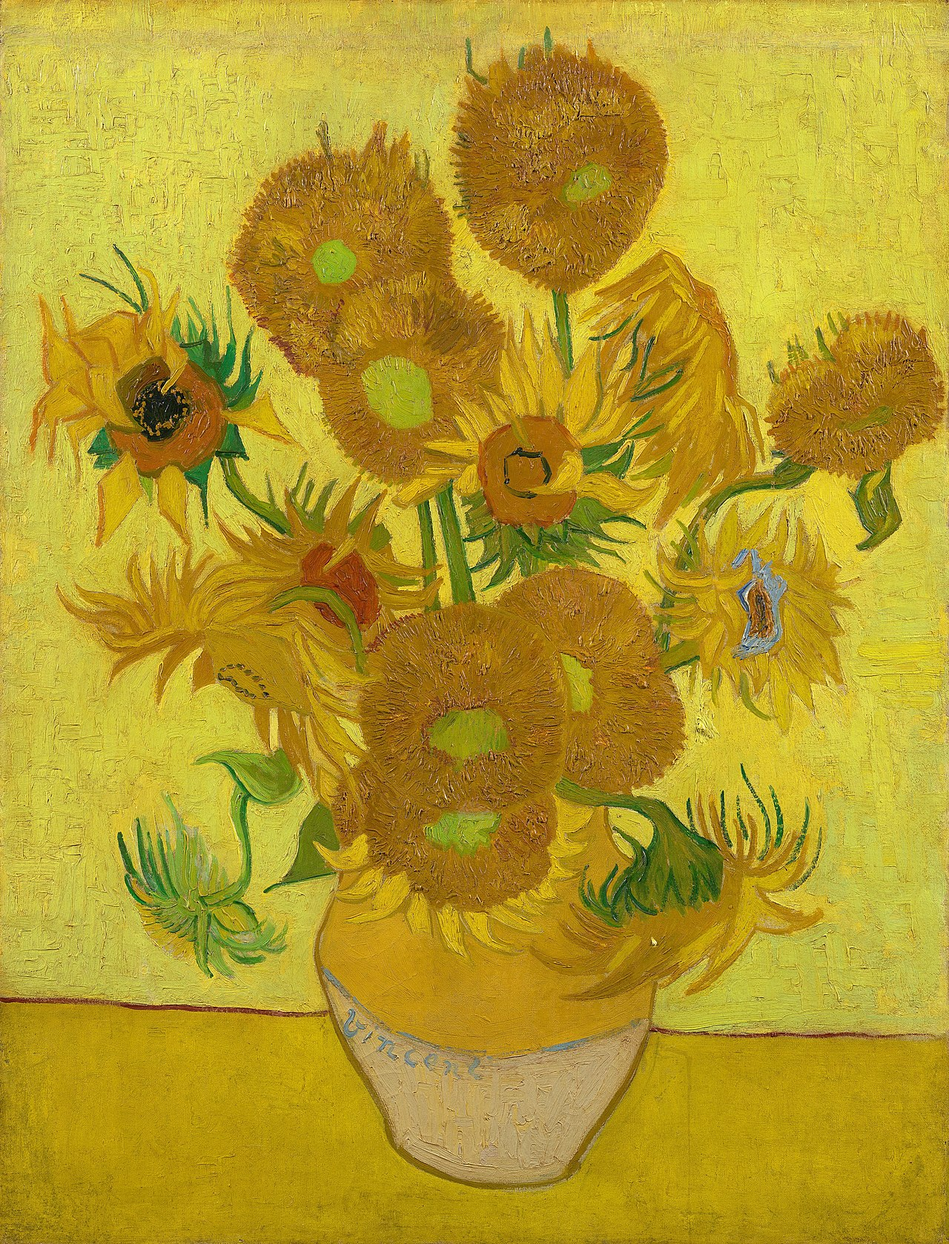
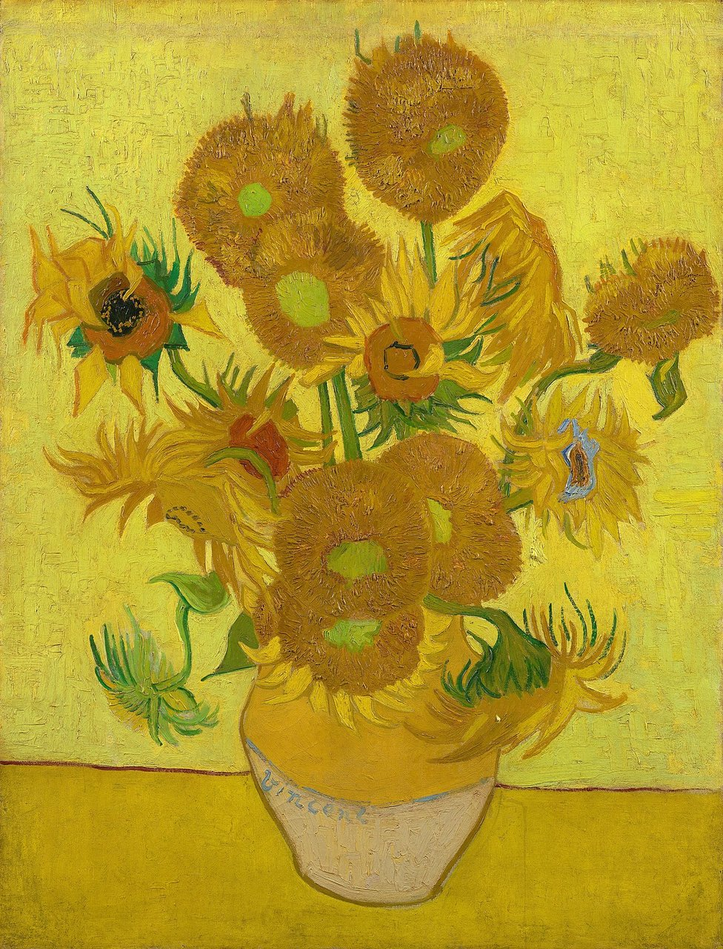
Normalize image sizes and quality

diff --git a/images.js b/images.js
@@ -5,20 +5,20 @@
 const IMAGES = [
   // ========== AI-generated ==========
   { src: "images/ai/hedgehog.jpg",           isAI: true,  alt: "Hedgehog",          caption: "AI-generated hedgehog" },
-  { src: "images/ai/arctic_wolf.png",        isAI: true,  alt: "Arctic wolf",       caption: "AI-generated — Recraft v3" },
+  { src: "images/ai/arctic_wolf.jpg",        isAI: true,  alt: "Arctic wolf",       caption: "AI-generated — Recraft v3" },
   { src: "images/ai/wolf_moon.jpg",          isAI: true,  alt: "Wolf",              caption: "AI-generated wolf scene" },
-  { src: "images/ai/dragon_sunset.png",      isAI: true,  alt: "Dragon at sunset",  caption: "AI-generated — FLUX 1.1 Pro Ultra" },
+  { src: "images/ai/dragon_sunset.jpg",      isAI: true,  alt: "Dragon at sunset",  caption: "AI-generated — FLUX 1.1 Pro Ultra" },
   { src: "images/ai/moonlit_forest.jpg",     isAI: true,  alt: "Moonlit forest",    caption: "AI-generated — ChatGPT" },
   { src: "images/ai/cold_mountains.jpg",     isAI: true,  alt: "Mountains",         caption: "AI-generated landscape" },
   { src: "images/ai/firefly_landscape.jpg",  isAI: true,  alt: "Landscape",         caption: "AI-generated — Adobe Firefly" },
-  { src: "images/ai/fusion_island.png",      isAI: true,  alt: "Island",            caption: "AI-generated island — ChatGPT" },
+  { src: "images/ai/fusion_island.jpg",      isAI: true,  alt: "Island",            caption: "AI-generated island — ChatGPT" },
   { src: "images/ai/ai_food_dish.jpg",       isAI: true,  alt: "Food dish",         caption: "AI-generated food dish" },
-  { src: "images/ai/green_apple.png",        isAI: true,  alt: "Green apple",       caption: "AI-generated apple" },
-  { src: "images/ai/nun_butterfly.png",      isAI: true,  alt: "Nun and butterfly", caption: "AI-generated — Microsoft Copilot" },
-  { src: "images/ai/elderly_lady.png",       isAI: true,  alt: "Elderly lady",      caption: "AI-generated portrait — Copilot" },
-  { src: "images/ai/controlnet_portrait.png",isAI: true,  alt: "Portrait",          caption: "AI-generated — ControlNet / Stable Diffusion" },
+  { src: "images/ai/green_apple.jpg",        isAI: true,  alt: "Green apple",       caption: "AI-generated apple" },
+  { src: "images/ai/nun_butterfly.jpg",      isAI: true,  alt: "Nun and butterfly", caption: "AI-generated — Microsoft Copilot" },
+  { src: "images/ai/elderly_lady.jpg",       isAI: true,  alt: "Elderly lady",      caption: "AI-generated portrait — Copilot" },
+  { src: "images/ai/controlnet_portrait.jpg",isAI: true,  alt: "Portrait",          caption: "AI-generated — ControlNet / Stable Diffusion" },
   { src: "images/ai/frulli_frulla.jpg",      isAI: true,  alt: "Creature",          caption: "AI-generated creature" },
-  { src: "images/ai/dalle_writer.webp",      isAI: true,  alt: "Writer illustration", caption: "AI-generated — DALL-E" },
+  { src: "images/ai/dalle_writer.jpg",      isAI: true,  alt: "Writer illustration", caption: "AI-generated — DALL-E" },
   { src: "images/ai/grok_library.jpg",       isAI: true,  alt: "Library",           caption: "AI-generated library — Grok" },
   { src: "images/ai/street_scene.jpg",       isAI: true,  alt: "Street scene",      caption: "AI-generated street scene — Blockade Labs" },
 

diff --git a/tools/normalize_images.py b/tools/normalize_images.py
@@ -1,0 +1,107 @@
+#!/usr/bin/env python3
+"""
+One-shot: normalize every image under ../images/real/ (and optionally ../images/ai/)
+to the project standard: max dim 1280 px, JPEG quality 85, progressive, optimized.
+
+Rewrites files in place. Converts non-.jpg files (png/webp) to .jpg and updates
+../images.js accordingly.
+
+Usage:
+    source .venv/bin/activate
+    python normalize_images.py           # real/ only (default)
+    python normalize_images.py --all     # real/ and ai/
+    python normalize_images.py --dry-run
+"""
+import argparse
+import re
+from pathlib import Path
+
+from img_utils import shrink_to_jpeg, OUTPUT_MAX_DIM
+from PIL import Image
+
+HERE = Path(__file__).parent.resolve()
+REPO = HERE.parent
+IMAGES_JS = REPO / "images.js"
+
+
+def needs_work(path):
+    """Return True if this file is oversize *or* has a non-jpg extension."""
+    if path.suffix.lower() not in (".jpg", ".jpeg"):
+        return True
+    try:
+        with Image.open(path) as img:
+            return max(img.size) > OUTPUT_MAX_DIM
+    except Exception:
+        return False
+
+
+def normalize_dir(d, dry_run=False):
+    """Returns list of (old_rel_path, new_rel_path) for files whose extension changed."""
+    renames = []
+    for src in sorted(d.iterdir()):
+        if not src.is_file() or src.name.startswith("."):
+            continue
+        if src.suffix.lower() not in (".jpg", ".jpeg", ".png", ".webp"):
+            continue
+
+        before_size = src.stat().st_size
+        with Image.open(src) as img:
+            before_dims = img.size
+
+        action = []
+        if max(before_dims) > OUTPUT_MAX_DIM:
+            action.append("resize")
+        if src.suffix.lower() != ".jpg":
+            action.append(f"convert({src.suffix.lower()[1:]}->jpg)")
+
+        if not action:
+            continue
+
+        new_name = src.stem + ".jpg"
+        new_path = src.with_name(new_name)
+        print(f"  {' + '.join(action):<28}  {src.name} ({before_dims[0]}x{before_dims[1]}, {before_size//1024}KB)")
+
+        if dry_run:
+            continue
+
+        jpg = shrink_to_jpeg(src.read_bytes())
+        new_path.write_bytes(jpg)
+        if new_path != src:
+            src.unlink()
+            renames.append((src.name, new_name))
+
+    return renames
+
+
+def update_images_js(renames, subdir):
+    """Rewrite images/<subdir>/old -> images/<subdir>/new in images.js."""
+    if not renames or not IMAGES_JS.exists():
+        return
+    text = IMAGES_JS.read_text()
+    for old, new in renames:
+        text = text.replace(f"images/{subdir}/{old}", f"images/{subdir}/{new}")
+    IMAGES_JS.write_text(text)
+    print(f"  updated images.js ({len(renames)} rename(s) in {subdir}/)")
+
+
+def main():
+    ap = argparse.ArgumentParser()
+    ap.add_argument("--all", action="store_true", help="Also normalize images/ai/")
+    ap.add_argument("--dry-run", action="store_true")
+    args = ap.parse_args()
+
+    dirs = [("real", REPO / "images" / "real")]
+    if args.all:
+        dirs.append(("ai", REPO / "images" / "ai"))
+
+    for subdir, path in dirs:
+        if not path.exists():
+            continue
+        print(f"\n== {subdir}/ ==")
+        renames = normalize_dir(path, dry_run=args.dry_run)
+        if not args.dry_run:
+            update_images_js(renames, subdir)
+
+
+if __name__ == "__main__":
+    main()

diff --git a/tools/download_commons.py b/tools/download_commons.py
@@ -31,13 +31,13 @@ Usage:
     python download_commons.py
 """
 import json
-import os
-import re
 import time
 import urllib.error
 import urllib.parse
 import urllib.request
 from pathlib import Path
+
+from img_utils import shrink_to_jpeg
 
 HERE = Path(__file__).parent.resolve()
 OUT = HERE.parent / "images" / "real"
@@ -68,17 +68,10 @@ def get_url(title):
     return None
 
 
-def download(url, dest):
+def download(url):
     req = urllib.request.Request(url, headers={"User-Agent": "realOrAi-game/1.0"})
     with urllib.request.urlopen(req, timeout=60) as r:
-        data = r.read()
-    dest.write_bytes(data)
-    return len(data)
-
-
-def ext_from_url(url):
-    m = re.search(r"\.([a-zA-Z0-9]+)(?:/|$|\?)", url.split("/")[-1])
-    return ("." + m.group(1).lower()) if m else ".jpg"
+        return r.read()
 
 
 def main():
@@ -88,14 +81,9 @@ def main():
         return
 
     for title, slug, caption in CANDIDATES:
-        # Skip if already present under any common extension
-        existing = next(
-            (OUT / f"{slug}{e}" for e in (".jpg", ".jpeg", ".png", ".webp")
-             if (OUT / f"{slug}{e}").exists() and (OUT / f"{slug}{e}").stat().st_size > 5000),
-            None,
-        )
-        if existing:
-            print(f"  SKIP {existing.name}")
+        dest = OUT / f"{slug}.jpg"
+        if dest.exists() and dest.stat().st_size > 5000:
+            print(f"  SKIP {dest.name}")
             continue
 
         for attempt in range(6):
@@ -104,12 +92,10 @@ def main():
                 if not u:
                     print(f"  [NO-URL] {title}")
                     break
-                ext = ext_from_url(u)
-                if ext not in (".jpg", ".jpeg", ".png", ".webp"):
-                    ext = ".jpg"
-                dest = OUT / f"{slug}{ext}"
-                size = download(u, dest)
-                print(f"  OK {dest.name} ({size//1024} KB)  |  {caption}")
+                raw = download(u)
+                jpg = shrink_to_jpeg(raw)
+                dest.write_bytes(jpg)
+                print(f"  OK {dest.name} ({len(raw)//1024} KB -> {len(jpg)//1024} KB)  |  {caption}")
                 time.sleep(2.5)
                 break
             except urllib.error.HTTPError as e:

diff --git a/tools/generate.py b/tools/generate.py
@@ -26,7 +26,6 @@ prompt whose .jpg currently exists — safe across --only / --force / partial ru
 """
 import argparse
 import copy
-import io
 import json
 import os
 import random
@@ -38,16 +37,12 @@ import uuid
 from pathlib import Path
 
 try:
-    from PIL import Image
-except ImportError:
-    sys.stderr.write("Missing dependency. Run: uv pip install --python .venv Pillow\n")
-    sys.exit(1)
-
-try:
     import websocket  # websocket-client
 except ImportError:
-    sys.stderr.write("Missing dependency. Run: pip install websocket-client\n")
+    sys.stderr.write("Missing dependency. Run: uv pip install --python .venv websocket-client Pillow\n")
     sys.exit(1)
+
+from img_utils import shrink_to_jpeg  # noqa: E402
 
 HERE = Path(__file__).parent.resolve()
 REPO = HERE.parent
@@ -67,11 +62,6 @@ NODE_LATENT = "130"
 NODE_SEED = "509"          # RandomNoise.noise_seed
 SEED_KEY = "noise_seed"
 
-# Downscale the ComfyUI PNG to roughly match the real-photo assets
-# (Commons thumbs are ~1024px wide, 100-600 KB).
-OUTPUT_MAX_DIM = 1280
-OUTPUT_JPEG_QUALITY = 85
-
 # Aspect ratios -> (width, height). Kept close to ~2 MP, multiples of 64.
 # Matches the "1920x1088" budget of the supplied workflow (≈2.1 MP).
 ASPECTS = {
@@ -83,20 +73,6 @@ ASPECTS = {
     "4:3":  (1664, 1280),
     "3:4":  (1280, 1664),
 }
-
-
-def shrink_to_jpeg(png_bytes, max_dim=OUTPUT_MAX_DIM, quality=OUTPUT_JPEG_QUALITY):
-    """Decode a PNG, downscale so longest side <= max_dim, return JPEG bytes."""
-    img = Image.open(io.BytesIO(png_bytes))
-    if img.mode not in ("RGB", "L"):
-        img = img.convert("RGB")
-    w, h = img.size
-    scale = min(1.0, max_dim / max(w, h))
-    if scale < 1.0:
-        img = img.resize((int(w * scale), int(h * scale)), Image.LANCZOS)
-    buf = io.BytesIO()
-    img.save(buf, format="JPEG", quality=quality, optimize=True, progressive=True)
-    return buf.getvalue()
 
 
 def load_seeds():

diff --git a/tools/img_utils.py b/tools/img_utils.py
@@ -1,0 +1,24 @@
+"""Shared image-normalization helpers for the Real or AI? toolchain.
+
+Target profile: max dim 1280 px, JPEG quality 85, progressive, optimized.
+Keeps AI and real images indistinguishable by dimensions / filesize.
+"""
+import io
+from PIL import Image
+
+OUTPUT_MAX_DIM = 1280
+OUTPUT_JPEG_QUALITY = 85
+
+
+def shrink_to_jpeg(src_bytes, max_dim=OUTPUT_MAX_DIM, quality=OUTPUT_JPEG_QUALITY):
+    """Decode image bytes, downscale so longest side <= max_dim, return JPEG bytes."""
+    img = Image.open(io.BytesIO(src_bytes))
+    if img.mode not in ("RGB", "L"):
+        img = img.convert("RGB")
+    w, h = img.size
+    scale = min(1.0, max_dim / max(w, h))
+    if scale < 1.0:
+        img = img.resize((int(w * scale), int(h * scale)), Image.LANCZOS)
+    buf = io.BytesIO()
+    img.save(buf, format="JPEG", quality=quality, optimize=True, progressive=True)
+    return buf.getvalue()
